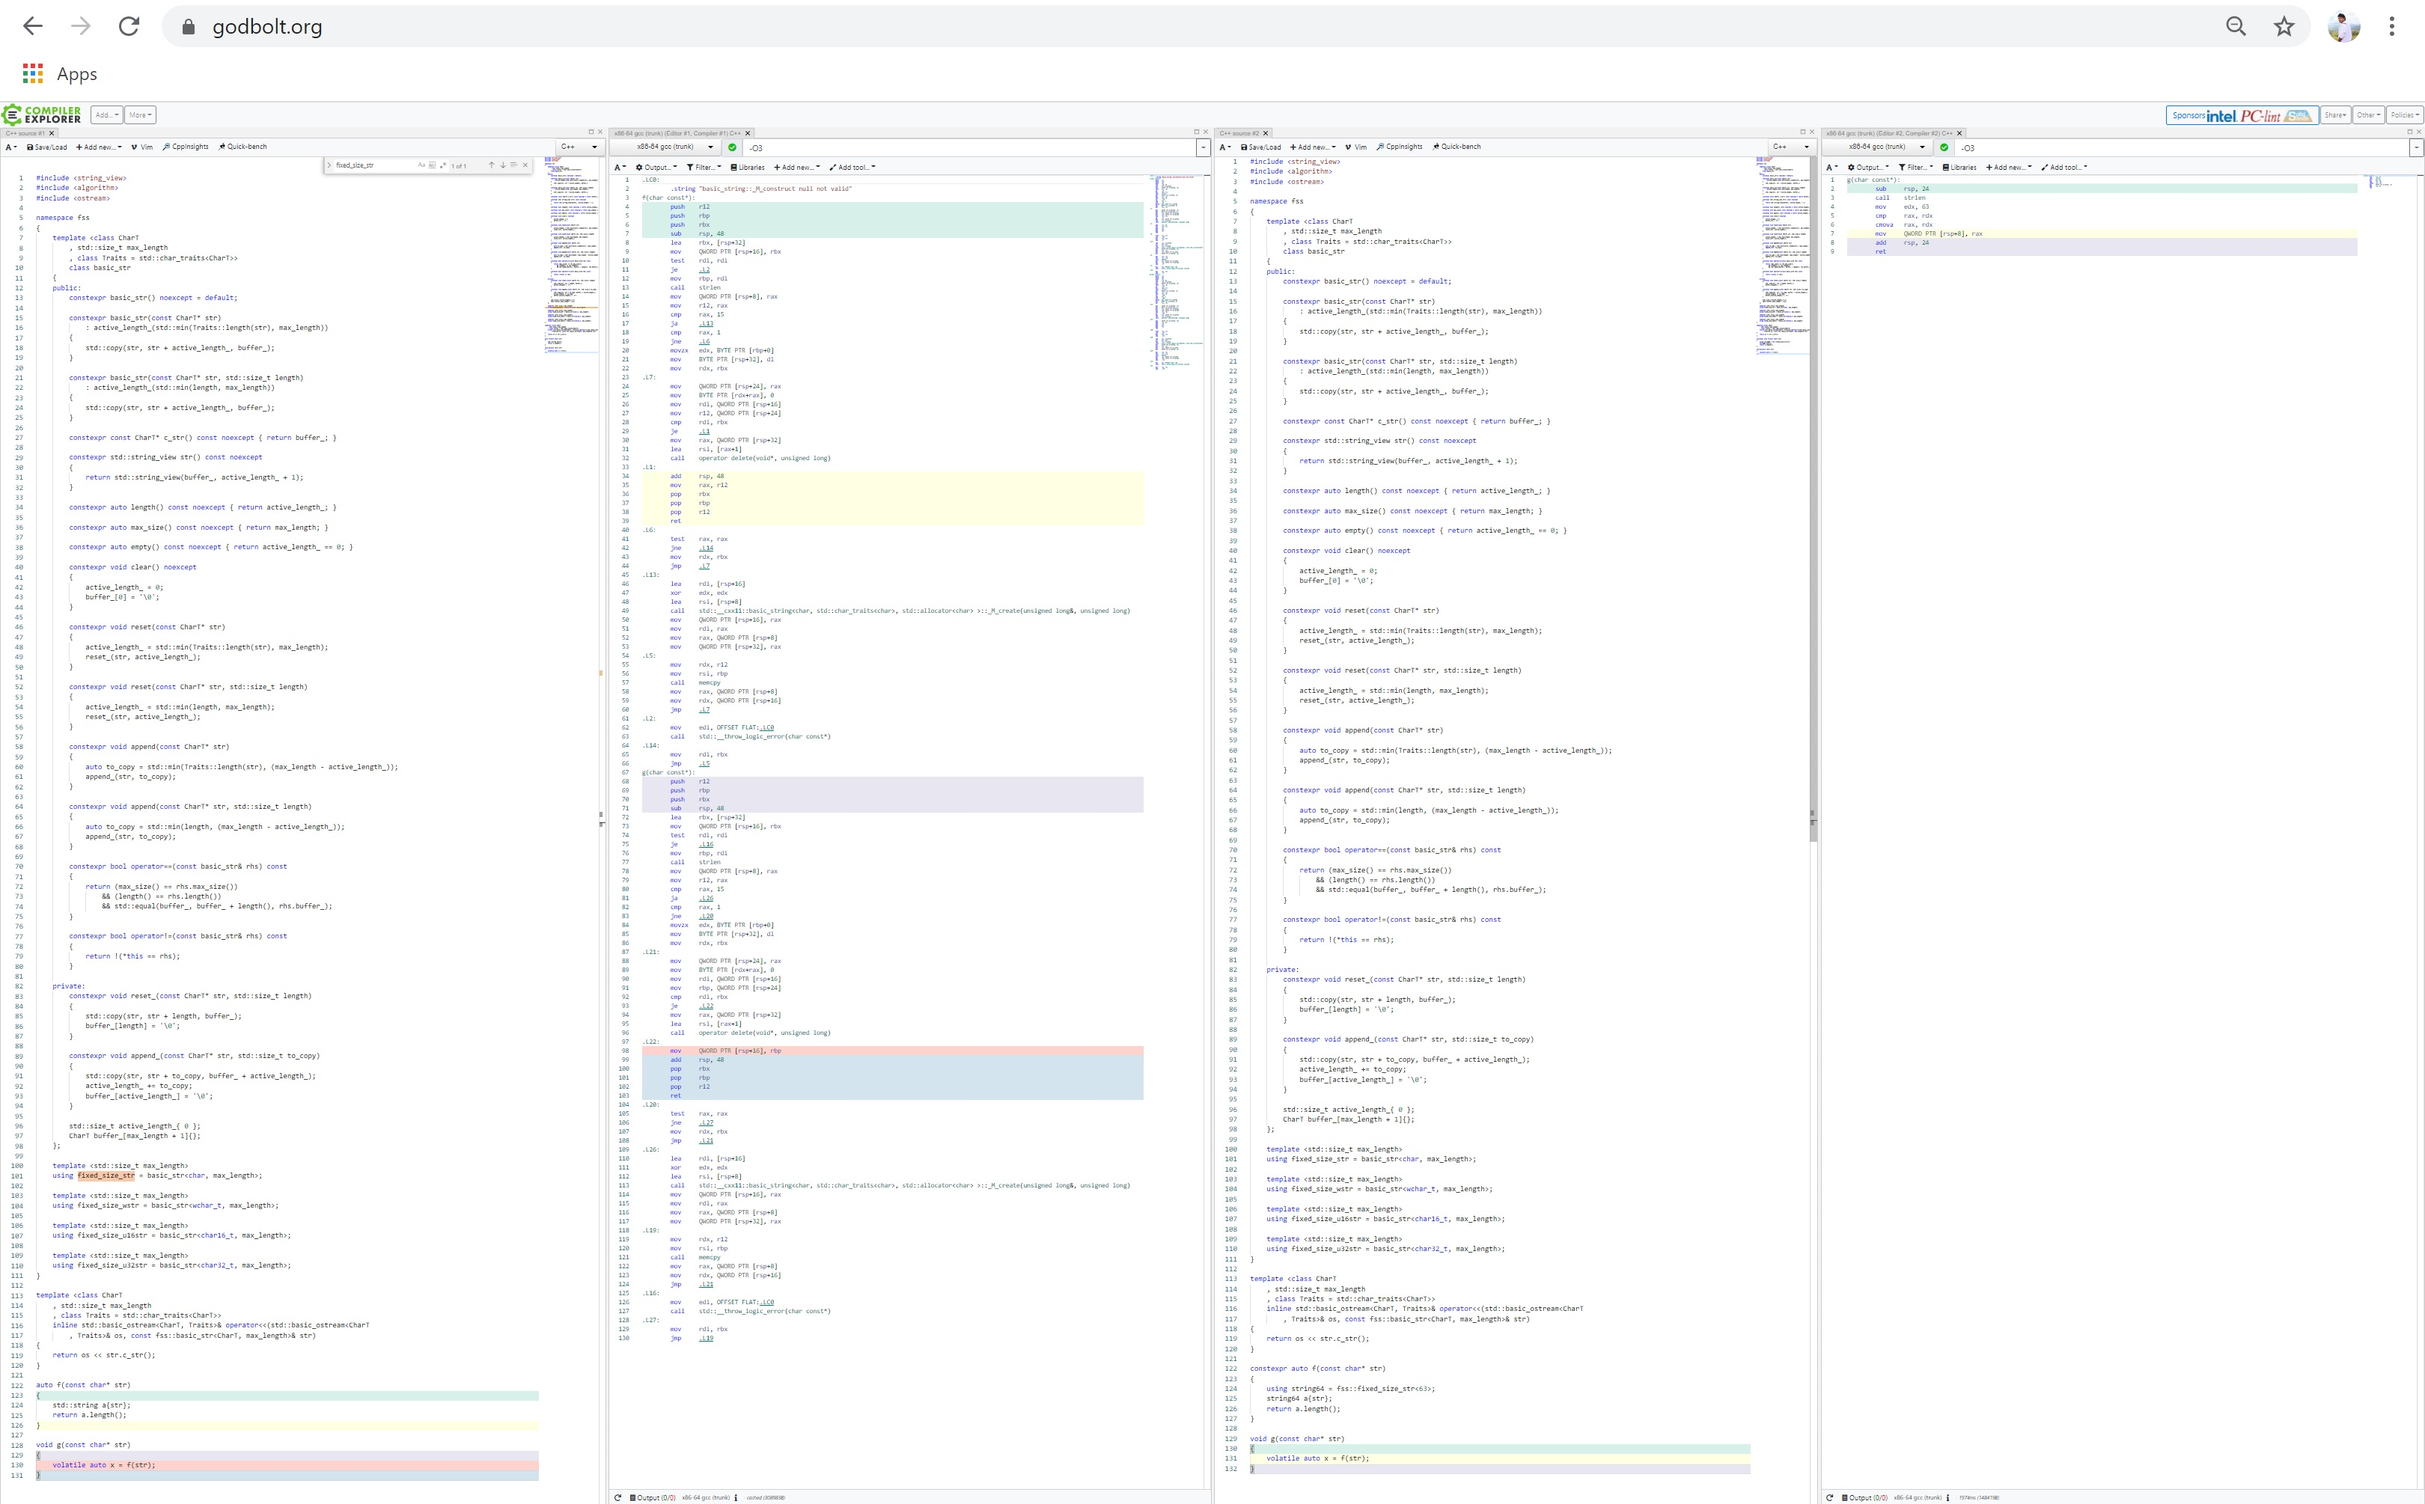
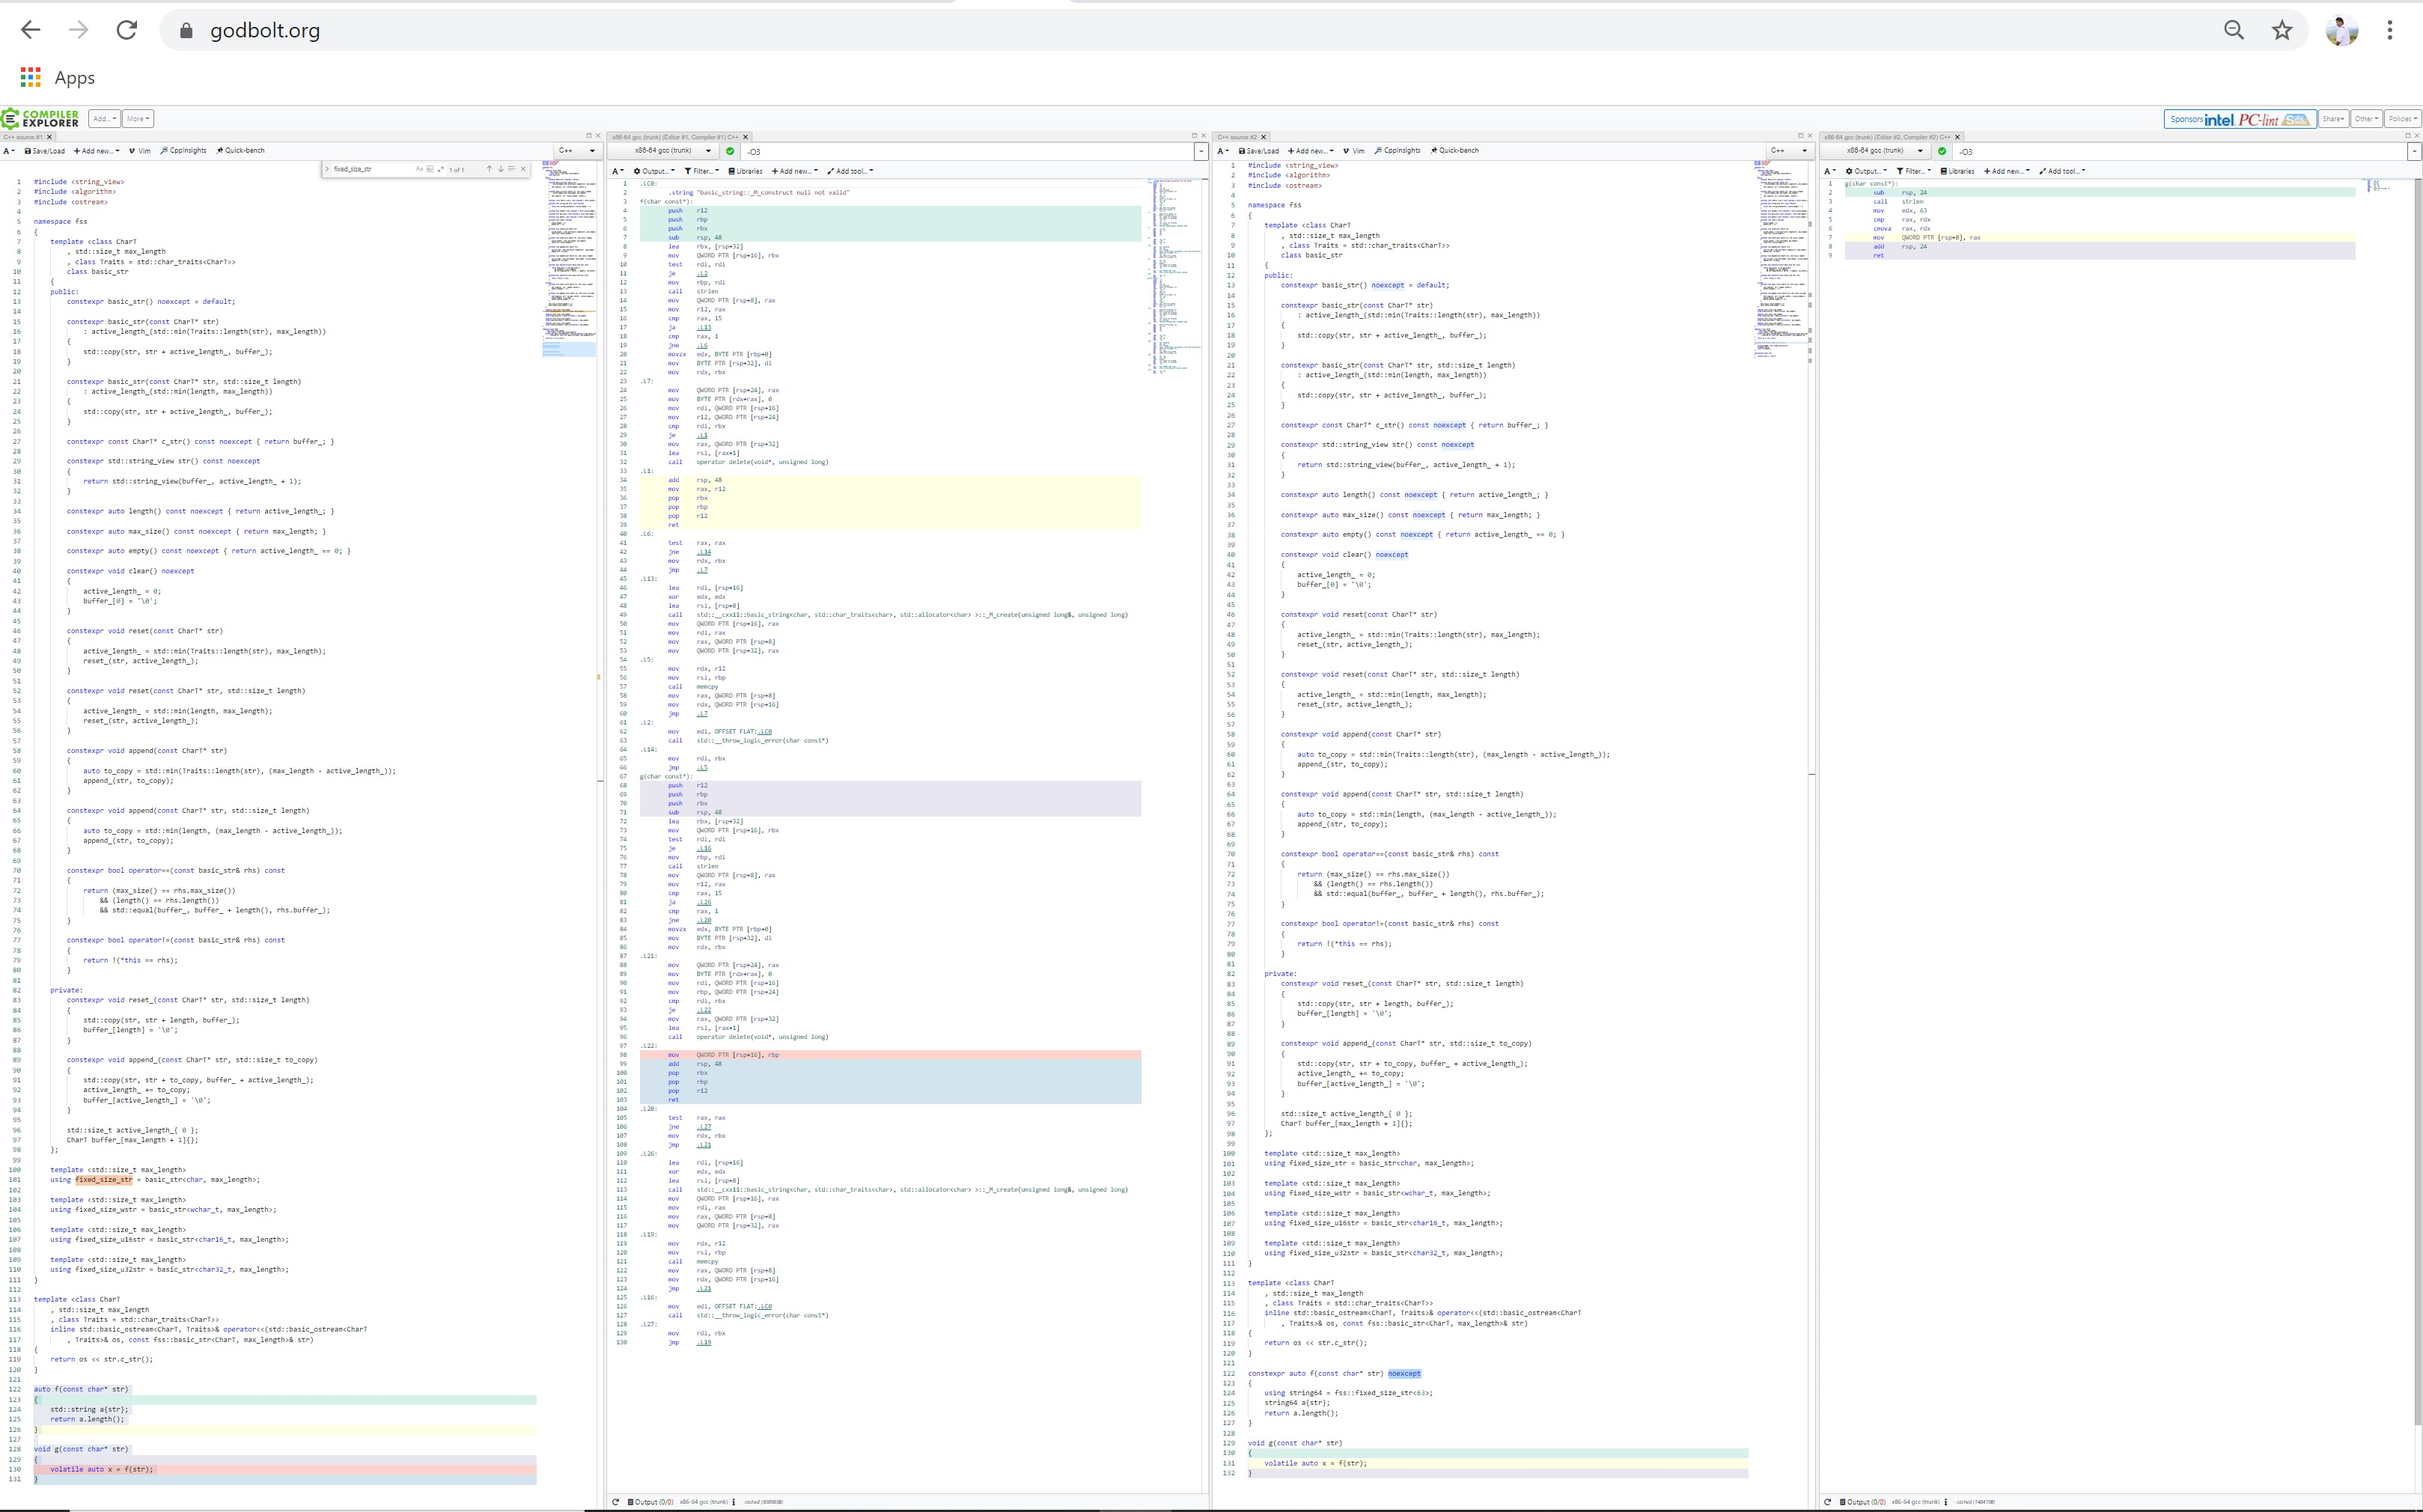
Performance Analysis

diff --git a/README.md b/README.md
@@ -19,10 +19,10 @@ mkdir build && cd build && cmake .. && make
 ```
 
 ## Performance Analysis
-* comparison of compiler output between **fixed_size_string** and **std::string** using https://godbolt.org/
-* compiler version - x86-64 gcc-trunk
-* test scenario - function creates string from given char pointer and returns the length of the created string
-    * using **std::string**
+* Compiler version: **x86-64 gcc-trunk**
+* Test scenario - Function creates a string from a given char pointer and return length of the created string. Length is returned and assigned to a volatile variable to avoid compiler optimizing out the construction of the variable.* comparison of compiler output between **fixed_size_string** and **std::string** using https://godbolt.org/
+* Test code 
+    * Using **std::string**
         ```cpp
         auto f(const char* str)
         {
@@ -35,7 +35,7 @@ mkdir build && cd build && cmake .. && make
             volatile auto x = f(str);
         }
         ```
-    * using **fixed_size_string**
+    * Using **fixed_size_string**. Note use of **constexpr** and **noexcept**
         ```cpp
         constexpr auto f(const char* str) noexcept
         {
@@ -48,14 +48,12 @@ mkdir build && cd build && cmake .. && make
         {
             volatile auto x = f(str);
         }
-        ```
-        
- **compiler output**
-
-![image](https://github.com/m3janitha/fixed_size_string/blob/master/compiler_analysis.jpg)
+        ```        
+* Comparison of compiler output between **std::string** and **fixed_size_string** using https://godbolt.org/
+	![image](https://github.com/m3janitha/fixed_size_string/blob/master/compiler_analysis.jpg)
 
 ## Usage
-see bellow
+Refer to below example code
 ```cpp
     /* define types */
     using string8 = fss::fixed_size_str<7>;
@@ -110,14 +108,16 @@ see bellow
     k.reset("xyz", 3);                                  // k is "xyz"
 
     /* remove_suffix */
+	/* there is no boundary check. similar to string_view */
     string8 l{ "1234567" };
     l.remove_suffix(3);                                 // l is "1234"
 
     /* remove_prefix */
+	/* there is no boundary check. similar to string_view */
     l.remove_prefix(2);                                 // l is "34"
 
     /* stream operator */
-    std::cout << l << std::endl;
+    std::cout << l << std::endl;						// outout is "34"
 
     /* using for member variables */
     struct test_struct
